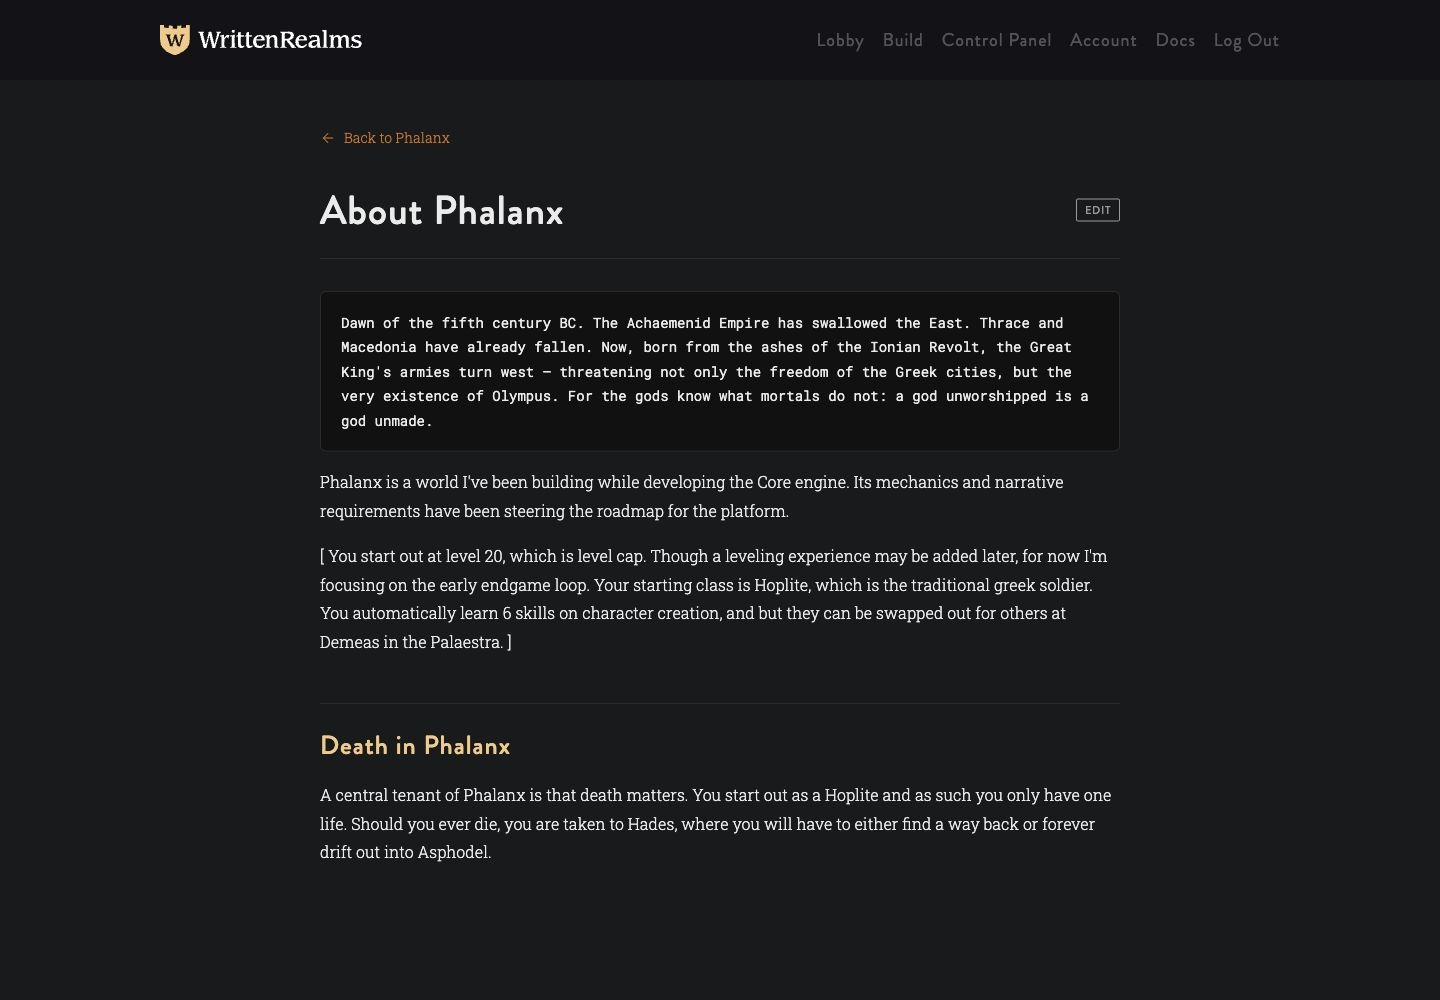
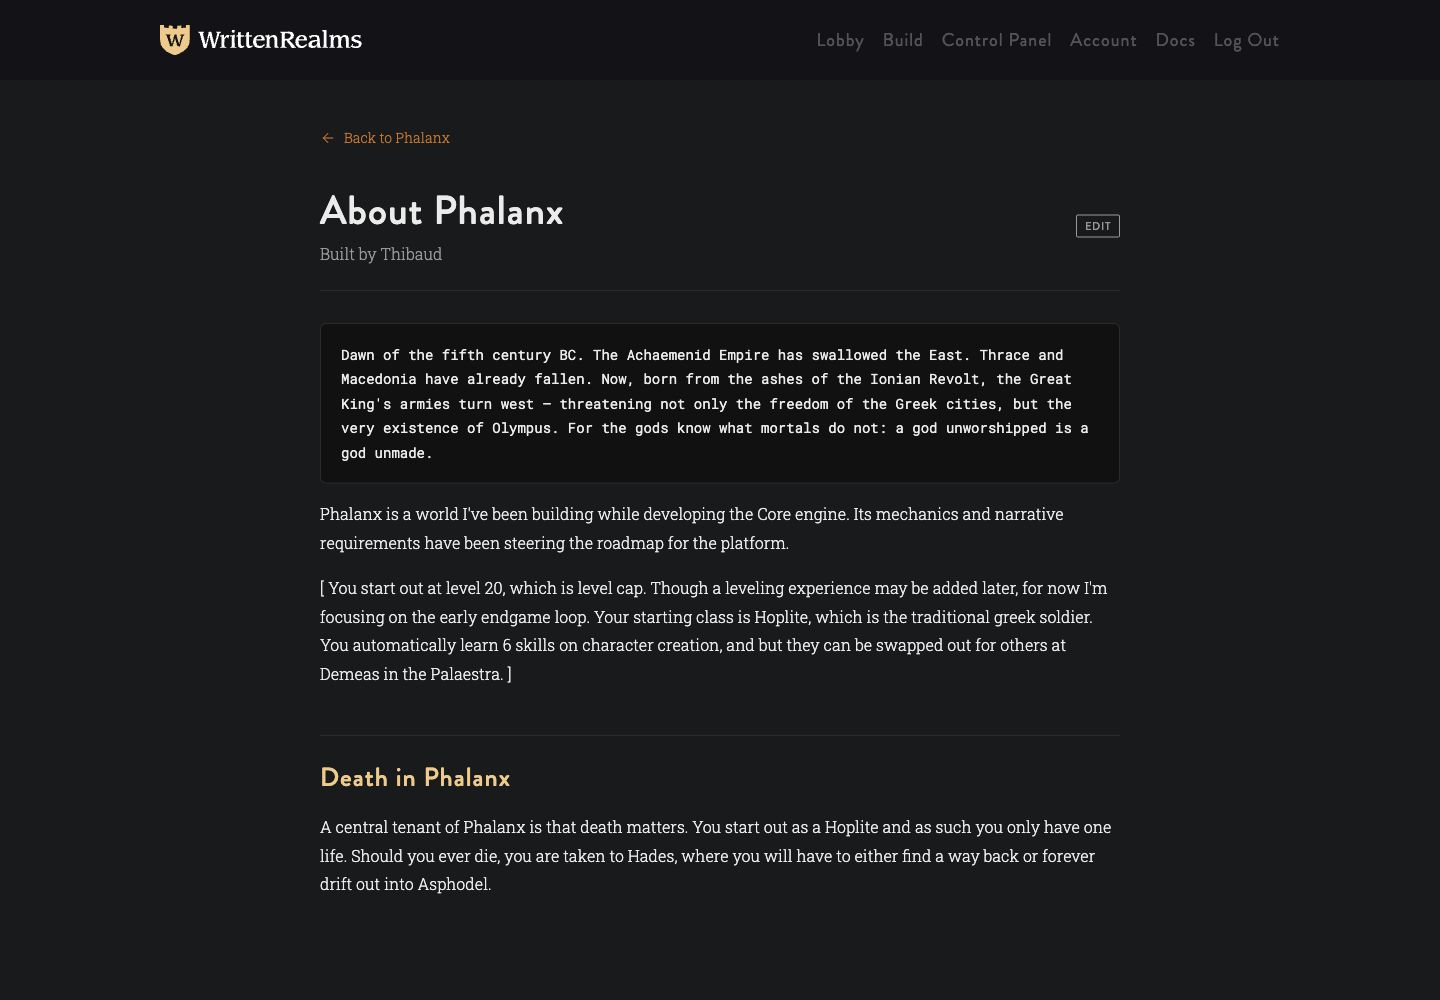
Show builder credits on world about pages

diff --git a/frontend/tests/browser/worldInformation.ts b/frontend/tests/browser/worldInformation.ts
@@ -7,6 +7,9 @@ import WorldInformation from '../../src/views/lobby/WorldInformation.vue';
 import '../../src/styles/app.scss';
 
 const params = new URLSearchParams(location.search);
+const builtBy = params.has('no-credit') ? '' : params.has('blank-credit') ? '   '
+  : params.has('long-credit') ? 'The Phalanx builders and their extraordinarily dedicated collaborators'
+  : '<Builders> & friends';
 const codeSample = 'Dawn of the fifth century BC. The Achaemenid Empire has swallowed the East. Thrace and Macedonia have already fallen. Now the armies turn west, threatening the freedom of the Greek cities and the existence of Olympus.\n    Keep this indentation.\n' + 'long-command-'.repeat(20) + '\n';
 const sample = '```text\n' + codeSample + '```\n\n## A world on the edge of war\n\nThe Persian Empire is moving west. Explore **ancient Greece**, meet its people, and choose your place in the story.\n\n## Getting started\n\n- Explore Athens and speak with the people in the agora.\n- Type `look` to examine your surroundings.\n- Read the [player guides](/docs/players/) for the basics.\n\n> Take your time. There is more to this world than the next battle.\n\n## At a glance\n\n| Setting | Play style |\n| --- | --- |\n| Ancient Greece | Exploration and adventure |';
 let content = params.has('empty') ? '' : sample;
@@ -22,7 +25,7 @@ axios.defaults.adapter = async config => {
     return { config, status: 200, statusText: 'OK', headers: {}, data: { information: content } };
   }
   return { config, status: 200, statusText: 'OK', headers: {}, data: {
-    id: Number(config.url.split('/')[3]), name: 'Phalanx', information: content, can_edit: editable,
+    id: Number(config.url.split('/')[3]), name: 'Phalanx', built_by: builtBy, information: content, can_edit: editable,
   } };
 };
 const router = createRouter({ history: createMemoryHistory(), routes: [
@@ -38,6 +41,18 @@ const frame = async () => { await nextTick(); await new Promise(requestAnimation
 const button = (text: string) => Array.from(document.querySelectorAll('button')).find(node => node.textContent?.trim() === text)!;
 let checks = 0;
 function check(condition: boolean, message: string) { if (!condition) throw new Error(message); checks++; }
+function checkCredit() {
+  const credit = document.querySelector('.information-credit');
+  if (builtBy.trim()) {
+    check(credit?.textContent === `Built by ${builtBy}`, 'Configured builder credit missing or altered');
+    check(credit!.children.length === 0, 'Builder credit was interpreted as HTML');
+    const heading = document.querySelector('.information-heading h1')!.getBoundingClientRect();
+    const bounds = credit!.getBoundingClientRect();
+    check(bounds.top >= heading.bottom && Math.abs(bounds.left - heading.left) <= 1, 'Builder credit must be below and aligned with the heading');
+  } else {
+    check(!credit, 'Blank builder credit should not be displayed');
+  }
+}
 function checkCodeBlock() {
   const pre = document.querySelector<HTMLPreElement>('.markdown-content pre')!;
   const code = pre?.querySelector('code');
@@ -51,6 +66,7 @@ async function run() {
   await frame(); await frame();
   check(document.documentElement.scrollWidth <= innerWidth, 'Page overflows horizontally');
   check(document.querySelectorAll('.information-heading h1').length === 1 && !document.querySelector('.information-label'), 'Redundant page heading');
+  checkCredit();
   if (!params.has('empty')) checkCodeBlock();
   if (params.has('reader')) {
     check(!button('EDIT') && !document.querySelector('textarea'), 'Reader has editing controls');
@@ -61,6 +77,7 @@ async function run() {
     const editor = document.querySelector<HTMLTextAreaElement>('textarea')!;
     check(!!editor, 'Builder has no editor');
     check(document.activeElement === editor, 'Editor did not receive keyboard focus');
+    checkCredit();
     const draft = '## Draft\n\nKeep **my changes**.  \nNext line.\n';
     editor.value = draft;
     editor.dispatchEvent(new Event('input', { bubbles: true }));
@@ -95,6 +112,7 @@ async function run() {
     button('SAVE').click(); await frame(); await frame();
     check(content === draft && !!document.querySelector('[role="status"]'), 'Save did not preserve Markdown');
     check(!document.querySelector('textarea'), 'Saved page did not return to reading');
+    checkCredit();
     button('EDIT').click(); await frame();
     const again = document.querySelector<HTMLTextAreaElement>('textarea')!;
     again.value = 'Discard this'; again.dispatchEvent(new Event('input', { bubbles: true }));

diff --git a/frontend/src/views/lobby/WorldInformation.vue b/frontend/src/views/lobby/WorldInformation.vue
@@ -12,7 +12,10 @@
     <div v-else-if="!world" class="loading-container"><div class="spinner"></div></div>
     <template v-else>
       <header class="information-heading">
-        <h1>About {{ world.name }}</h1>
+        <div class="information-title">
+          <h1>About {{ world.name }}</h1>
+          <p v-if="world.built_by?.trim()" class="information-credit color-text-60">Built by {{ world.built_by }}</p>
+        </div>
         <button v-if="world.can_edit && !editing" class="btn-small button-gray" @click="startEditing">EDIT</button>
       </header>
 
@@ -52,7 +55,7 @@ import axios from 'axios';
 import { ArrowLeft } from '@lucide/vue';
 import MarkdownContent from '@/components/MarkdownContent.vue';
 
-interface Information { id: number; name: string; information: string; can_edit: boolean }
+interface Information { id: number; name: string; built_by: string; information: string; can_edit: boolean }
 const route = useRoute();
 const store = useStore();
 const world = ref<Information | null>(null);
@@ -164,10 +167,12 @@ watch(() => route.params.world_id, loadWorld, { immediate: true });
   margin: 26px 0 32px;
   padding-bottom: 24px;
   border-bottom: 1px solid $color-background-light-border;
+  .information-title { min-width: 0; }
   h1 { @include font-title-regular; min-width: 0; font-size: 40px; line-height: 1.2; margin: 0; overflow-wrap: anywhere; }
   button { flex-shrink: 0; }
   @media ($mobile-site) { h1 { font-size: 32px; } }
 }
+.information-credit { margin: 8px 0 0; font-size: 16px; line-height: 1.5; overflow-wrap: anywhere; }
 #information-help { font-size: 14px; line-height: 1.7; margin: 8px 0 16px; }
 .information-editor-tools { display: flex; justify-content: space-between; align-items: center; margin-bottom: 12px; font-size: 13px; }
 #world-information-text { @include font-mono; line-height: 1.6; min-height: 360px; resize: vertical; }

diff --git a/backend/tests/test_world_information.py b/backend/tests/test_world_information.py
@@ -25,7 +25,7 @@ class WorldInformationTests(WorldTestCase):
         response = self.client.get(self.endpoint)
         self.assertEqual(response.status_code, 200)
         self.assertEqual(response.data, {
-            'id': self.world.pk, 'name': self.world.name, 'information': '', 'can_edit': False,
+            'id': self.world.pk, 'name': self.world.name, 'built_by': '', 'information': '', 'can_edit': False,
         })
         self.assertFalse(WorldInformation.objects.exists())
         self.client.force_authenticate(self.user)
@@ -33,6 +33,15 @@ class WorldInformationTests(WorldTestCase):
         self.assertTrue(self.client.get(self.endpoint).data['can_edit'])
         self.client.force_authenticate(None)
         self.assertEqual(self.client.get(self.endpoint).data['information'], self.markdown)
+
+    def test_builder_credit_uses_only_the_configured_value(self):
+        for credit in (None, '', 'Phalanx team', '<Builders> & friends'):
+            with self.subTest(credit=credit):
+                self.world_config.built_by = credit
+                self.world_config.save(update_fields=['built_by'])
+                response = self.client.get(self.endpoint)
+                self.assertEqual(response.status_code, 200)
+                self.assertEqual(response.data['built_by'], credit or '')
 
     def test_only_world_editors_can_save(self):
         member = self.create_user('member@example.com')

diff --git a/backend/lobby/views.py b/backend/lobby/views.py
@@ -39,7 +39,7 @@ from system import (
     models as system_models)
 from users import serializers as user_serializers
 from users.models import User
-from worlds.models import Room, World
+from worlds.models import Room, World, WorldConfig
 from worlds.information import WorldInformationInputSerializer, save_world_information, world_information
 
 
@@ -437,6 +437,7 @@ class WorldInformation(WorldLobbyBase, APIView):
         return Response({
             'id': self.world.pk,
             'name': self.world.name,
+            'built_by': WorldConfig.objects.filter(pk=self.world.config_id).values_list('built_by', flat=True).first() or '',
             'information': world_information(self.world),
             'can_edit': self.world.can_edit(request.user),
         })

diff --git a/docs/guides/builders/world-config-builder-guide.md b/docs/guides/builders/world-config-builder-guide.md
@@ -16,6 +16,9 @@ Write plain Markdown, use **Preview** to check it, then **Save** to publish it o
 the world's information page. **Cancel** discards the draft. Failed saves keep
 your draft available for retry, and leaving with unsaved changes asks first.
 
+Set `built_by` in World Config to display a muted **Built by** credit below the
+About heading. Leave it blank to omit the credit.
+
 Headings, paragraphs, emphasis, lists, links, images, quotes, tables, and code
 blocks are supported. Code blocks preserve indentation and line breaks, and
 wrap long lines to fit the page. Raw HTML is shown as text. Content is limited to

diff --git a/docs/guides/players/index.md b/docs/guides/players/index.md
@@ -23,6 +23,7 @@ require an account with access. Servers configured for multiple worlds show a
 
 Choose **More information** below a world's description to read the builders'
 notes about its setting, rules, and getting started at `/worlds/<world_id>/about`.
+When the builders have provided a credit, **Built by** appears below the heading.
 Use **Back to** at the top of that page to return to the world lobby. Private
 worlds keep the same access requirements on their information page.
 
